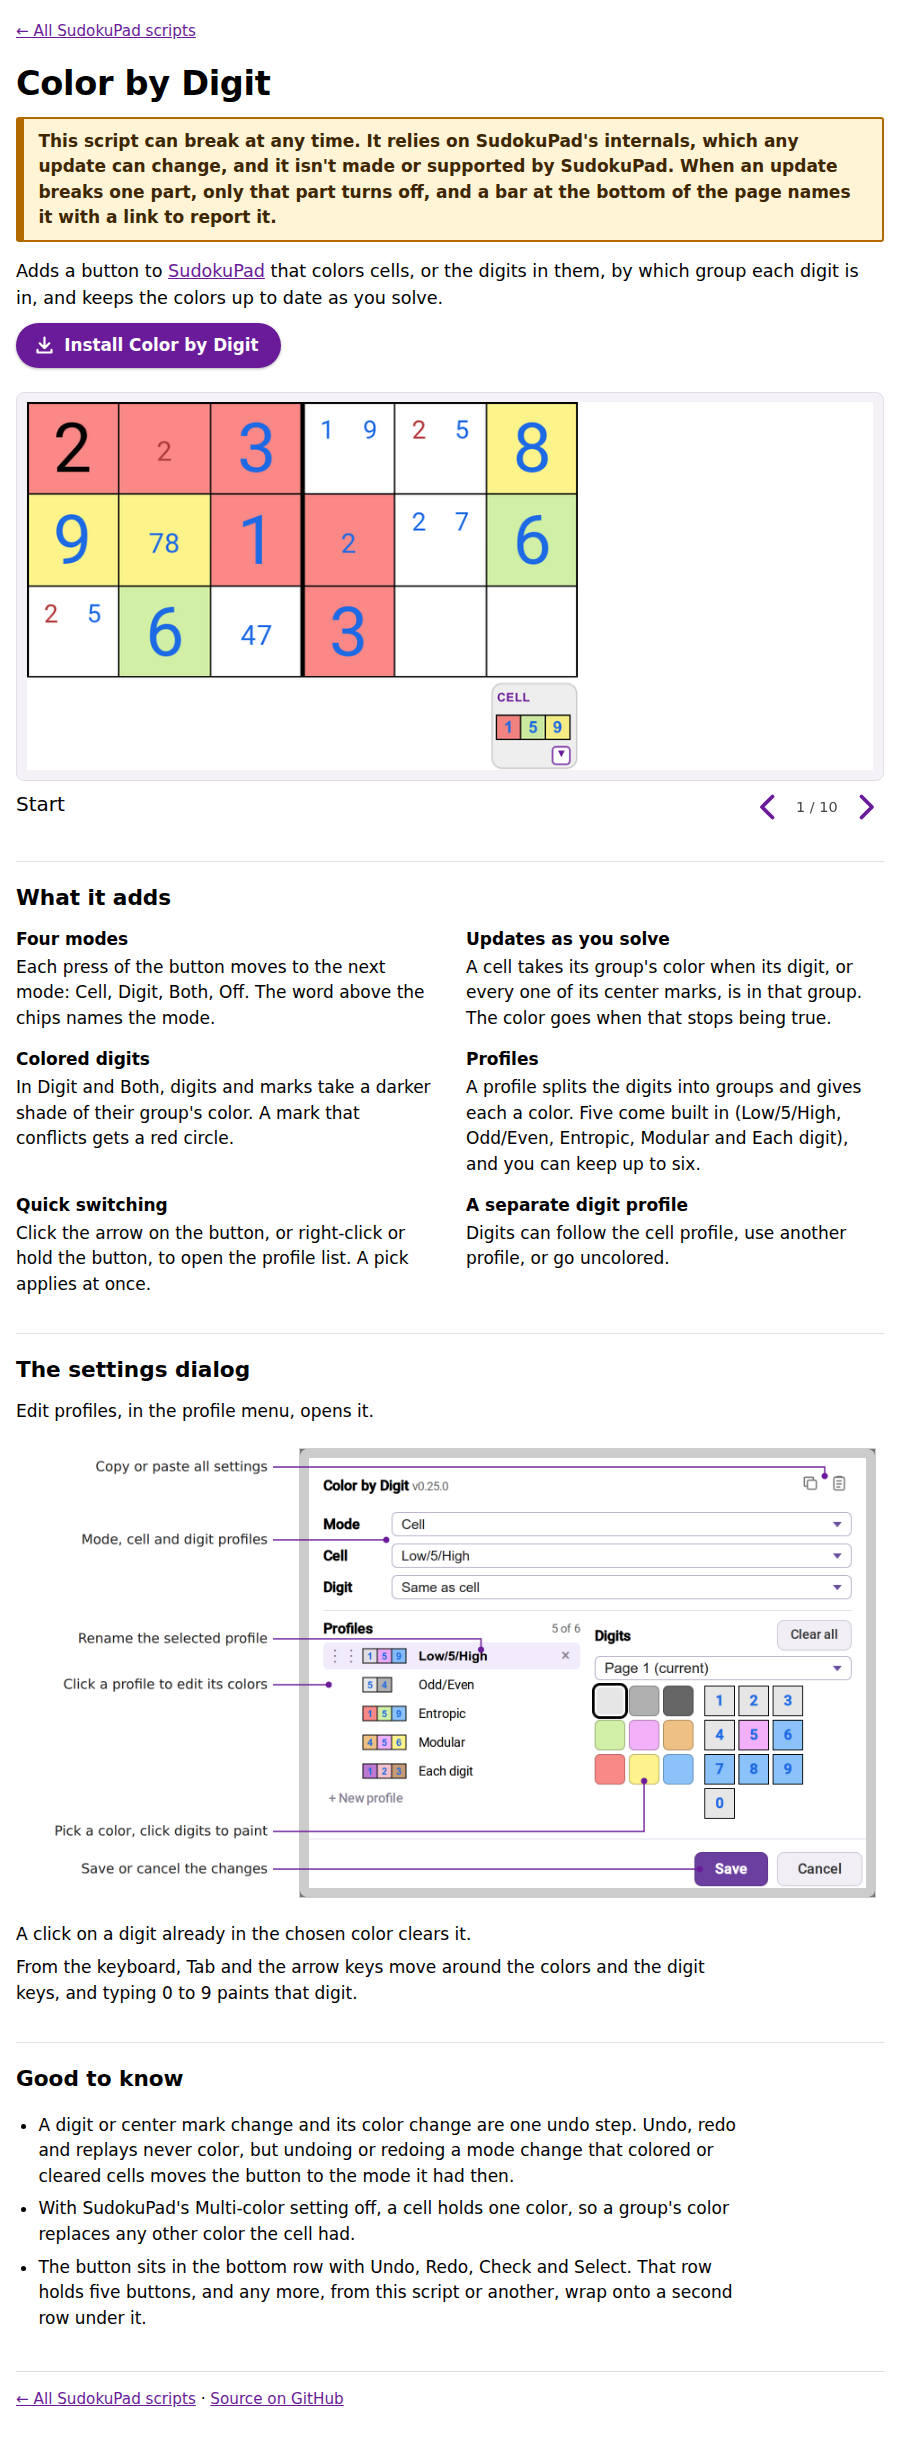
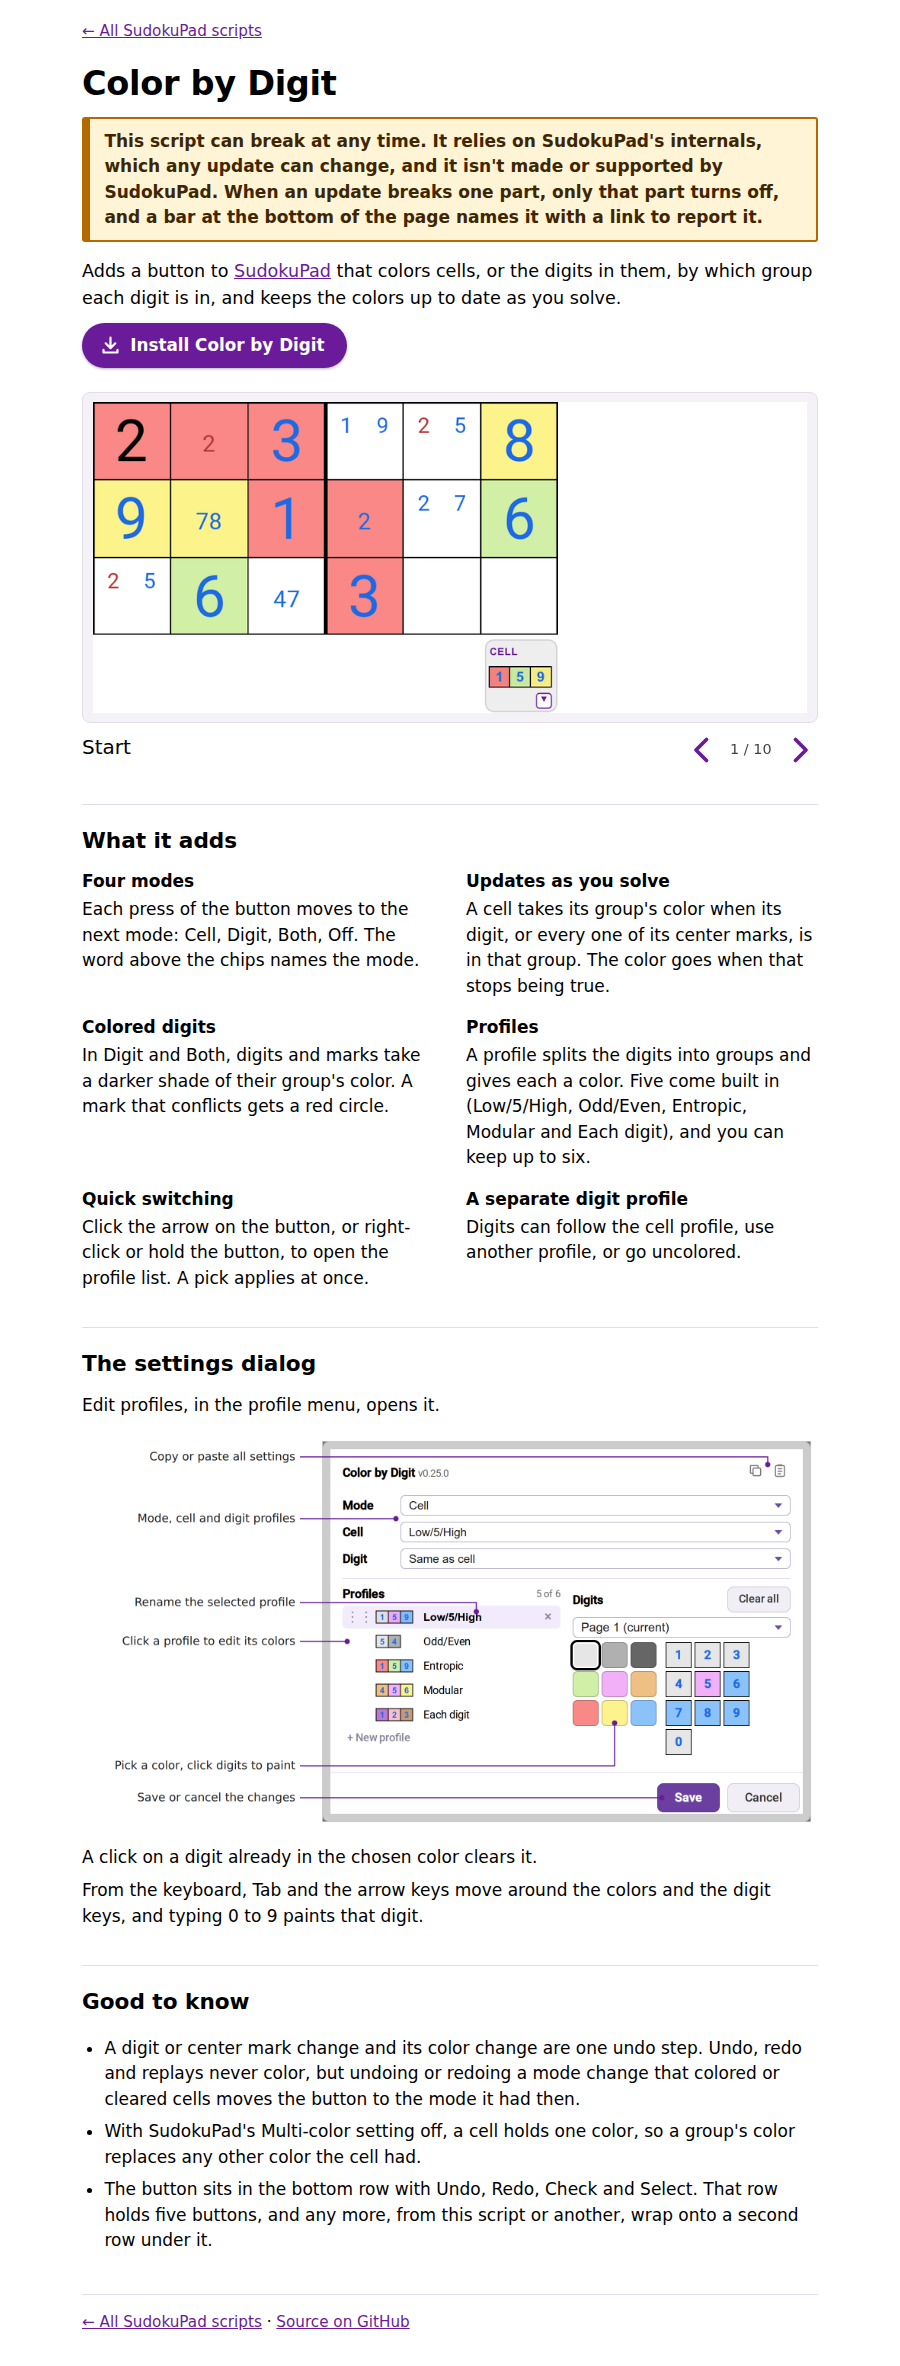
Site: narrow the details pages to one 46rem column so What it adds takes two columns (#568)
Closes #568

diff --git a/site/style.css b/site/style.css
@@ -44,6 +44,7 @@ p { margin: 0 0 .5rem; }
 .slide-pager button:focus-visible { outline: 2px solid var(--accent); outline-offset: 2px; border-radius: 6px; }
 
 /* The details layout (body.details): a back link, title, warning, lede and Install, then the slideshow, then sections divided by thin rules. */
+body.details { max-width: 46rem; }
 .details .back { font-size: .95rem; margin: .25rem 0 1rem; }
 .details .slide-caption { font-size: 1.25rem; }
 /* On a details page the frame takes the slides' own shape: the pictures stack in one grid cell at their own width (never larger), shrinking to fit a narrow window, so the frame is as wide and tall as the biggest. */
@@ -55,7 +56,6 @@ p { margin: 0 0 .5rem; }
 .details .lede { font-size: 1.1rem; }
 .details .actions { margin: .75rem 0 1.5rem; }
 .details h2 { font-size: 1.35rem; margin: 2.25rem 0 .75rem; padding-top: 1.25rem; border-top: 1px solid var(--frame-edge); }
-.details .prose, .details .notes { max-width: 44rem; }
 .details .features { display: grid; grid-template-columns: repeat(auto-fill, minmax(17rem, 1fr)); gap: 1rem 2rem; margin: 0; padding: 0; list-style: none; }
 .details .features strong { display: block; margin-bottom: .15rem; }
 .details .features p { margin: 0; }
